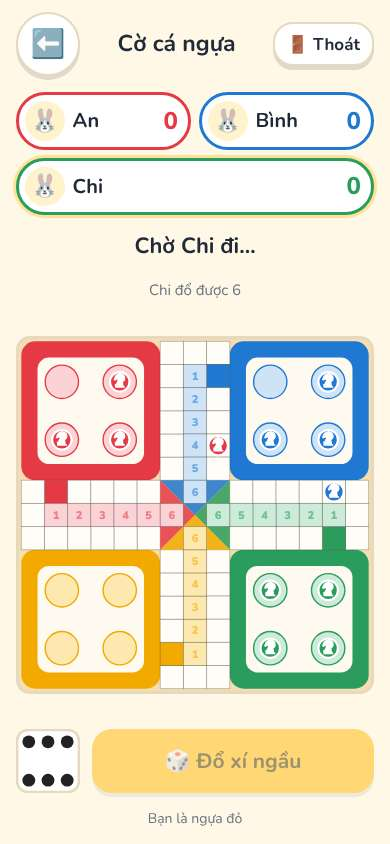
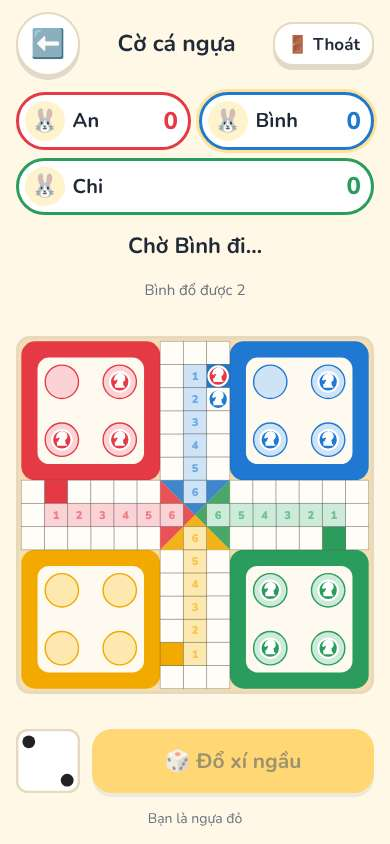
Cờ cá ngựa: same device, 2–4 players passing it around
Claude-Session: https://claude.ai/code/session_01SFZdZzeQbxhunHEM3pXjHe

diff --git a/src/games/cangua/CaNguaLocal.tsx b/src/games/cangua/CaNguaLocal.tsx
@@ -31,15 +31,22 @@ const BOT_ROLL_MS = 750;
 const BOT_MOVE_MS = 650;
 const ME: Color = 0;
 const BOT_AVATARS = ['🤖', '👾', '🦾'];
+const LOCAL_AVATARS = ['🙂', '😎', '🤠', '🥳'];
 
-/** Cờ cá ngựa against 1–3 computer players on this device (?bots=1|2|3). */
+/**
+ * Cờ cá ngựa on one device: against 1–3 computer players (?mode=solo&bots=1|2|3), or 2–4
+ * people passing the device around (?mode=local&players=2|3|4).
+ */
 export function CaNguaLocal() {
   const t = useT();
   const navigate = useNavigate();
   const [params] = useSearchParams();
   const profile = useProfile();
-  const bots = Math.min(3, Math.max(1, Number(params.get('bots')) || 1));
-  const colors = colorsFor(bots + 1);
+  const local = params.get('mode') === 'local';
+  const players = local ? Math.min(4, Math.max(2, Number(params.get('players')) || 2)) : 1;
+  const bots = local ? 0 : Math.min(3, Math.max(1, Number(params.get('bots')) || 1));
+  const colors = colorsFor(players + bots);
+  const isHuman = (c: Color) => local || c === ME;
 
   const [round, setRound] = useState(0);
   useCountPlay('cangua', round);
@@ -51,15 +58,23 @@ export function CaNguaLocal() {
 
   const botIndex = (c: Color) => colors.indexOf(c); // 1, 2, 3 for the computers
   const nameOf = (c: Color) =>
-    c === ME
-      ? profile.name || t('you')
-      : bots === 1
-        ? t('caroComputer')
-        : t('cnBotName', { n: botIndex(c) });
-  const avatarOf = (c: Color) => (c === ME ? profile.avatar : BOT_AVATARS[botIndex(c) - 1]);
+    local
+      ? t('cnPlayerN', { n: colors.indexOf(c) + 1 })
+      : c === ME
+        ? profile.name || t('you')
+        : bots === 1
+          ? t('caroComputer')
+          : t('cnBotName', { n: botIndex(c) });
+  const avatarOf = (c: Color) =>
+    local
+      ? LOCAL_AVATARS[colors.indexOf(c)]
+      : c === ME
+        ? profile.avatar
+        : BOT_AVATARS[botIndex(c) - 1];
 
-  const myTurn = !state.winner && state.turn === ME;
-  const botTurn = state.winner === null && state.turn !== ME;
+  // whoever's turn it is on this device (one person, or anyone holding it in "same device")
+  const myTurn = state.winner === null && isHuman(state.turn);
+  const botTurn = state.winner === null && !isHuman(state.turn);
 
   // latest state for the roll timer (the roll lands after a short animation)
   const current = useRef(state);
@@ -98,7 +113,7 @@ export function CaNguaLocal() {
       );
     } else if (s.roll === 6 && next.winner === null) setMessage(t('cnAgain'));
     else setMessage('');
-    if (next.turn === ME && next.winner === null && s.turn !== ME) sfx.opponent();
+    if (!local && next.turn === ME && next.winner === null && s.turn !== ME) sfx.opponent();
     setState(next);
   };
 
@@ -143,11 +158,15 @@ export function CaNguaLocal() {
       ? ''
       : rolling
         ? t('cnRolling')
-        : myTurn
+        : myTurn && local
           ? state.roll === null
-            ? t('cnYourRoll')
-            : t('cnPickHorse', { n: state.roll })
-          : t('turnOf', { name: nameOf(state.turn) });
+            ? t('cnTurnRoll', { name: nameOf(state.turn) })
+            : t('cnTurnPick', { name: nameOf(state.turn), n: state.roll })
+          : myTurn
+            ? state.roll === null
+              ? t('cnYourRoll')
+              : t('cnPickHorse', { n: state.roll })
+            : t('turnOf', { name: nameOf(state.turn) });
 
   return (
     <main className="screen game">
@@ -190,18 +209,22 @@ export function CaNguaLocal() {
           🎲 {t('cnRoll')}
         </button>
       </div>
-      <div className="muted center" style={{ fontSize: 14 }}>
-        {t('cnYouAre', { color: t(`cnColor${ME}` as MessageKey) })}
-      </div>
+      {!local && (
+        <div className="muted center" style={{ fontSize: 14 }}>
+          {t('cnYouAre', { color: t(`cnColor${ME}` as MessageKey) })}
+        </div>
+      )}
       {confirmExit && (
         <ExitConfirm onConfirm={() => navigate('/cangua')} onCancel={() => setConfirmExit(false)} />
       )}
       {state.winner !== null && (
         <ResultModal
           title={
-            state.winner === ME ? t('youWin') : t('playerWins', { name: nameOf(state.winner) })
+            state.winner === ME && !local
+              ? t('youWin')
+              : t('playerWins', { name: nameOf(state.winner) })
           }
-          win={state.winner === ME}
+          win={local || state.winner === ME}
           actions={
             <>
               <button className="btn" onClick={newRound} data-testid="play-again">

diff --git a/src/games/cangua/CaNguaSetup.tsx b/src/games/cangua/CaNguaSetup.tsx
@@ -11,7 +11,7 @@ import { CN_HELP, CN_STORY } from './help';
 export function CaNguaSetup() {
   const t = useT();
   const navigate = useNavigate();
-  const [mode, setMode] = useState<'solo' | 'online' | null>(null);
+  const [mode, setMode] = useState<'solo' | 'local' | 'online' | null>(null);
   const back = () => (mode !== null ? setMode(null) : navigate('/'));
   useBackHandler(back);
 
@@ -43,6 +43,15 @@ export function CaNguaSetup() {
           />
           <ModeCard
             game="cangua"
+            mode="local"
+            emoji="👫"
+            title={t('modeLocal')}
+            hint={t('cnLocalHint')}
+            onClick={() => setMode('local')}
+            testId="mode-local"
+          />
+          <ModeCard
+            game="cangua"
             mode="online"
             emoji="🌏"
             title={t('modeOnline')}
@@ -50,6 +59,26 @@ export function CaNguaSetup() {
             onClick={() => setMode('online')}
             testId="mode-online"
           />
+        </div>
+      ) : mode === 'local' ? (
+        <div className="stack">
+          <h2 className="section-title">{t('cnHowManyPlayers')}</h2>
+          {(
+            [
+              [2, '🙂😎', t('cnPlayers2')],
+              [3, '🙂😎🤠', t('cnPlayers3')],
+              [4, '🙂😎🤠🥳', t('cnPlayers4')],
+            ] as const
+          ).map(([n, emoji, title]) => (
+            <Card
+              key={n}
+              emoji={emoji}
+              title={title}
+              testId={`players-${n}`}
+              className="bots"
+              onClick={() => navigate(`/cangua/play?mode=local&players=${n}`)}
+            />
+          ))}
         </div>
       ) : mode === 'solo' ? (
         <div className="stack">

diff --git a/e2e/qa/cangua.spec.ts b/e2e/qa/cangua.spec.ts
@@ -119,3 +119,39 @@ test('[UX-32] against the computer: choose 3 computers, roll, the computers play
   expect(errors, '[UX-32] errors').toEqual([]);
   await ctx.close();
 });
+
+test('[UX-33] same device: 4 players take turns rolling on one device', async ({ browser }) => {
+  test.setTimeout(120_000);
+  const { page, errors, ctx } = await openApp(browser, { name: 'An' });
+  await page.goto('/#/cangua');
+  await page.getByTestId('mode-local').click();
+  await page.getByTestId('players-4').click();
+  await page.getByTestId('cn-board').waitFor();
+  await expect(page.locator('[data-testid^="horse-"]'), '[UX-33] four colours').toHaveCount(16);
+  await expect(page.getByTestId('status')).toContainText(/Người 1/);
+  // nobody plays by themselves: every roll and move is pressed on this device
+  const seen = new Set<string>();
+  for (let i = 0; i < 80 && seen.size < 4; i++) {
+    const status = (await page.getByTestId('status').textContent()) ?? '';
+    const who = status.match(/Người \d/)?.[0];
+    const roll = page.getByTestId('cn-roll');
+    if (who && (await roll.isEnabled())) {
+      seen.add(who);
+      await roll.click();
+      await page.waitForTimeout(600);
+      continue;
+    }
+    const can = page.locator('.cn-horse.can');
+    if (await can.count()) await can.first().dispatchEvent('pointerdown');
+    await page.waitForTimeout(250);
+  }
+  expect([...seen].sort(), '[UX-33] every player got a turn').toEqual([
+    'Người 1',
+    'Người 2',
+    'Người 3',
+    'Người 4',
+  ]);
+  await evidence(page, 'cangua', 'D2', 'UX-33-same-device');
+  expect(errors, '[UX-33] errors').toEqual([]);
+  await ctx.close();
+});

diff --git a/src/i18n/vi.ts b/src/i18n/vi.ts
@@ -245,6 +245,14 @@ export const vi = {
   cnBots2Hint: 'Ba người đua',
   cnBots3: '3 máy',
   cnBots3Hint: 'Đủ bốn màu ngựa, vui nhất!',
+  cnPlayerN: 'Người {n}',
+  cnTurnRoll: '{name}: đổ xí ngầu',
+  cnTurnPick: '{name} đổ được {n}: chạm một con ngựa đang sáng',
+  cnLocalHint: 'Chuyền tay nhau, 2–4 người',
+  cnHowManyPlayers: 'Mấy người cùng chơi?',
+  cnPlayers2: '2 người',
+  cnPlayers3: '3 người',
+  cnPlayers4: '4 người',
   cnStart: 'Bắt đầu ({n} người)',
   cnCanStart: 'Đủ người chơi rồi! Có thể chờ thêm bạn hoặc bắt đầu.',
   cnWaitHost: 'Chờ chủ phòng bắt đầu…',

diff --git a/src/i18n/en.ts b/src/i18n/en.ts
@@ -243,6 +243,14 @@ export const en: Record<MessageKey, string> = {
   cnBots2Hint: 'Three players',
   cnBots3: '3 computers',
   cnBots3Hint: 'All four colours – the most fun!',
+  cnPlayerN: 'Player {n}',
+  cnTurnRoll: '{name}: roll the die',
+  cnTurnPick: '{name} rolled {n}: tap a glowing horse',
+  cnLocalHint: 'Pass the device around, 2–4 players',
+  cnHowManyPlayers: 'How many players?',
+  cnPlayers2: '2 players',
+  cnPlayers3: '3 players',
+  cnPlayers4: '4 players',
   cnStart: 'Start ({n} players)',
   cnCanStart: 'Enough players! Wait for more or start now.',
   cnWaitHost: 'Waiting for the host to start…',

diff --git a/src/games/registry.ts b/src/games/registry.ts
@@ -45,7 +45,7 @@ export const GAMES: GameInfo[] = [
     title: 'gameCaNgua',
     desc: 'gameCaNguaDesc',
     path: '/cangua',
-    modes: ['solo', 'online'],
+    modes: ['solo', 'local', 'online'],
     group: 'folk',
   },
   {
